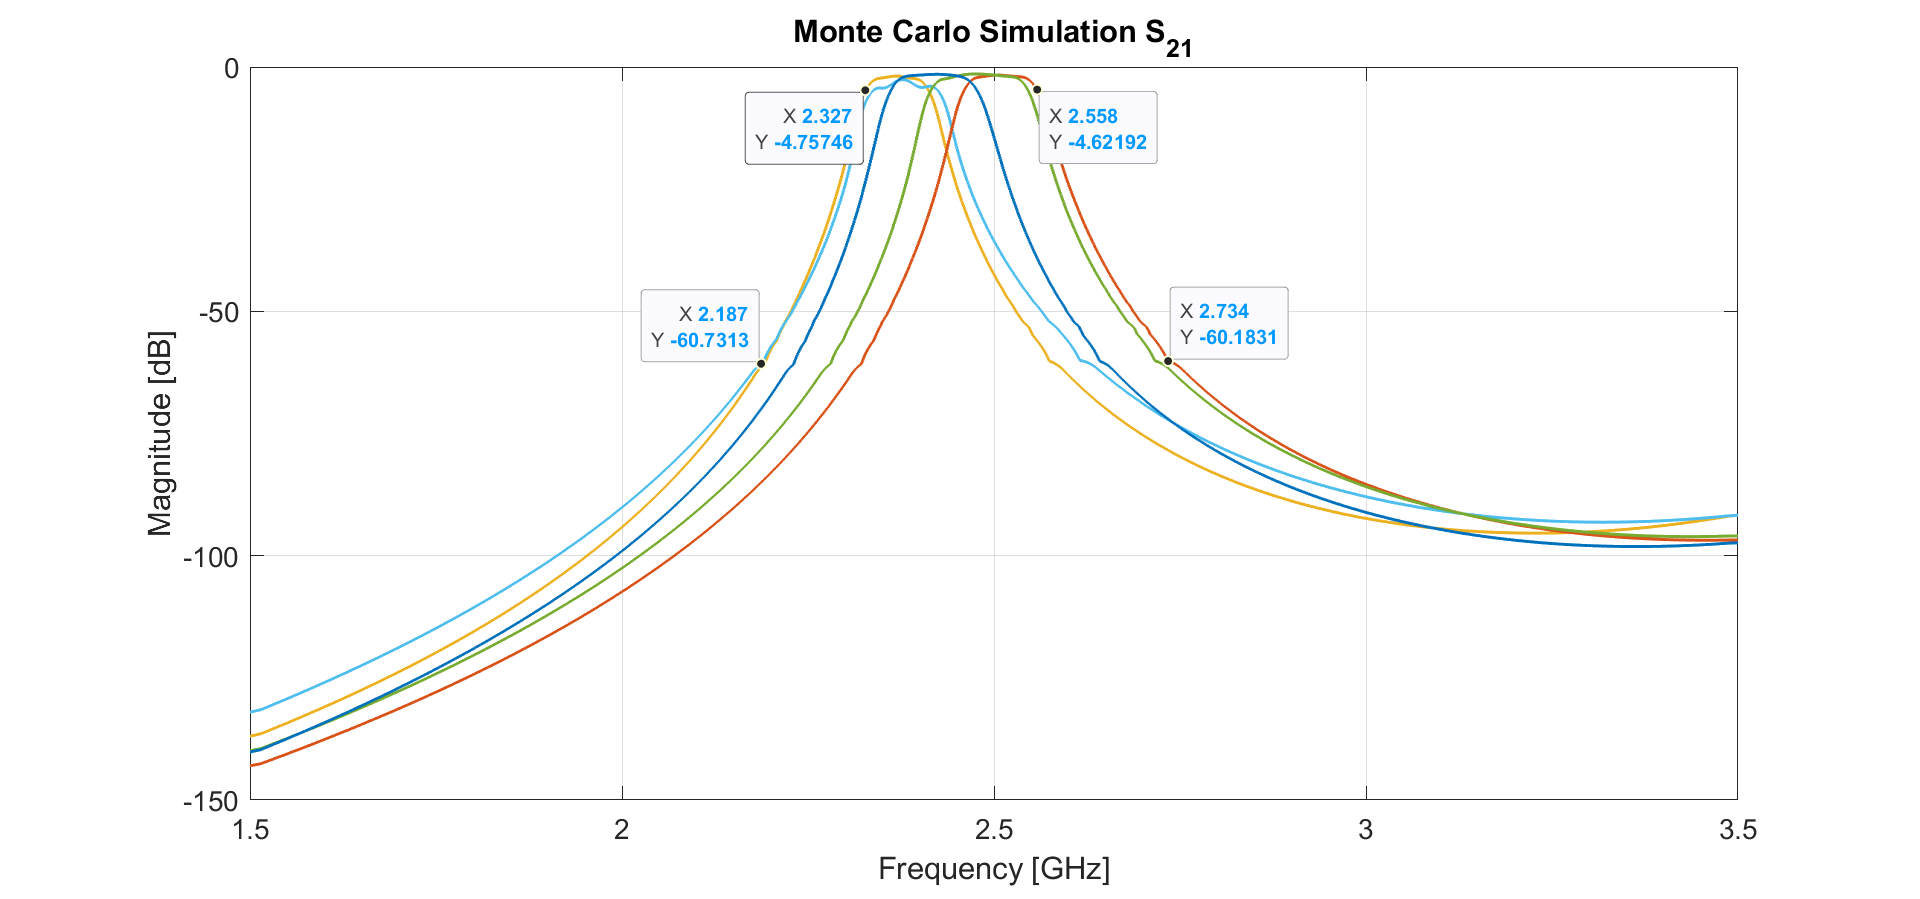
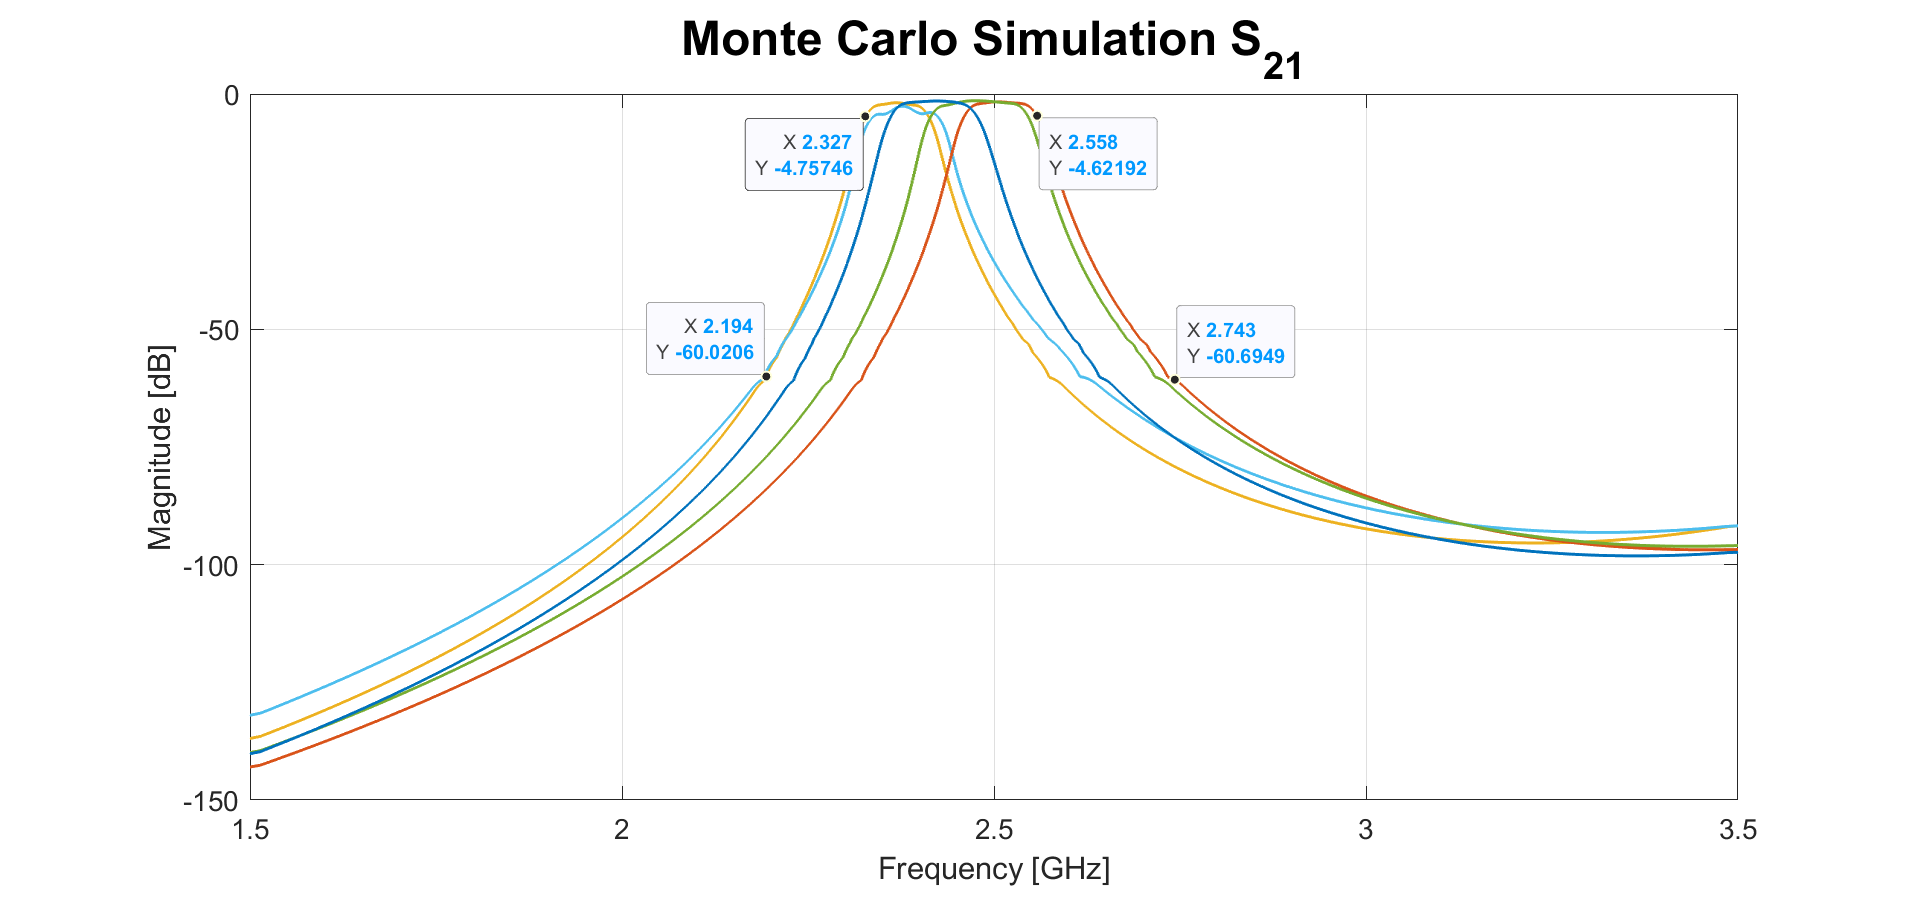
increase font size bruh

diff --git a/gitfigures/system_design/rf_front_end/bandpass_filter/bandpass_filter_plots.m b/gitfigures/system_design/rf_front_end/bandpass_filter/bandpass_filter_plots.m
@@ -125,8 +125,8 @@ s5(2).LineWidth = 1.4;
 s5(3).LineWidth = 1.4;
 grid on
 xlim([1.5 3.5]);
-xlabel('Frequency [GHz]','FontSize',14);
-ylabel('Magnitude [dB]','FontSize',14);
+xlabel('Frequency [GHz]','FontSize',18);
+ylabel('Magnitude [dB]','FontSize',18);
 set(gca,'FontSize',14);
-title('Monte Carlo Simulation S_{21}');
+title('Monte Carlo Simulation S_{21}','FontSize',24);
 hold off
